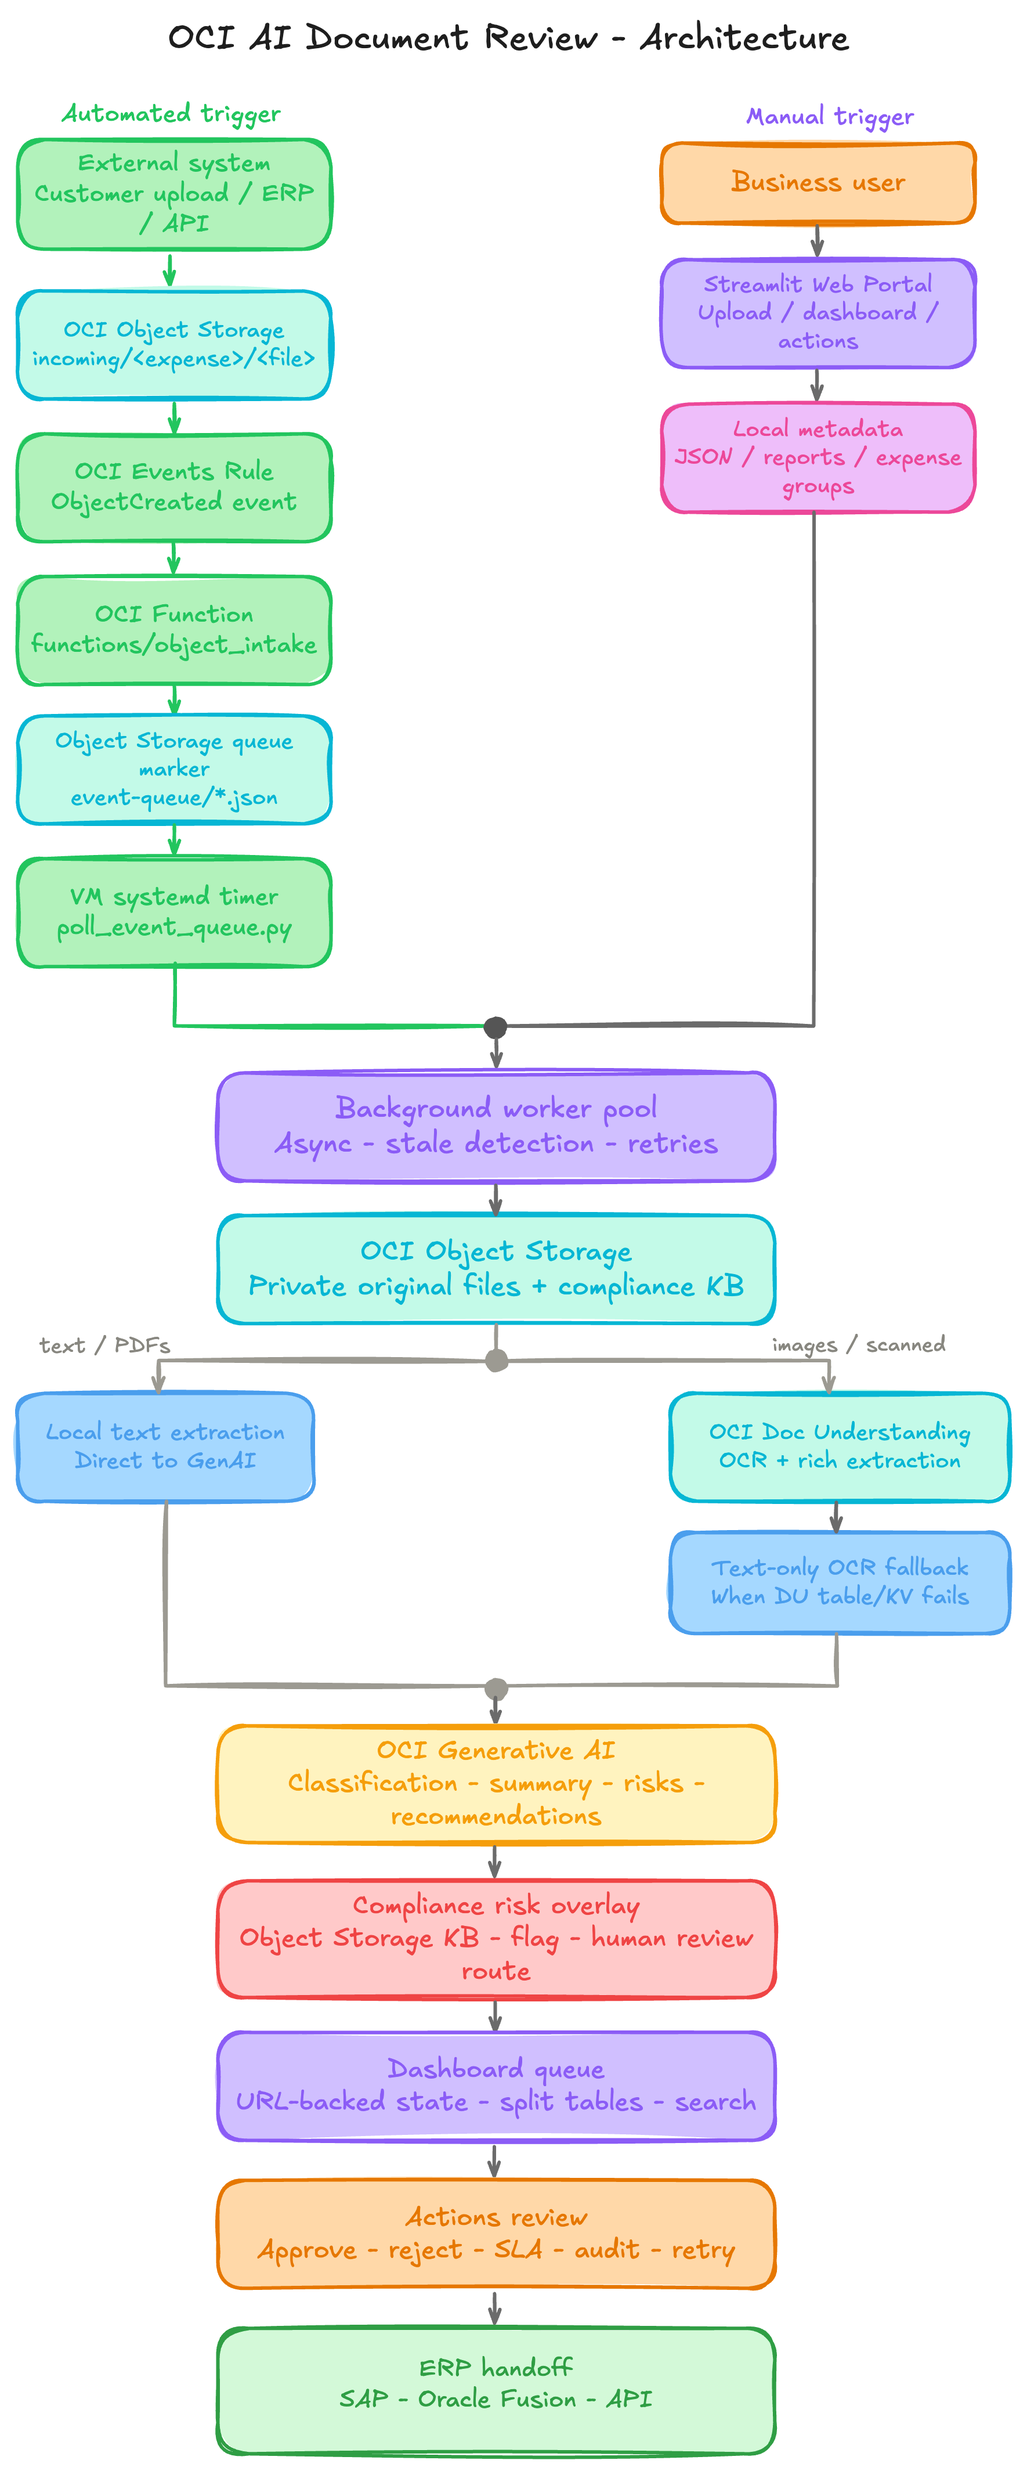
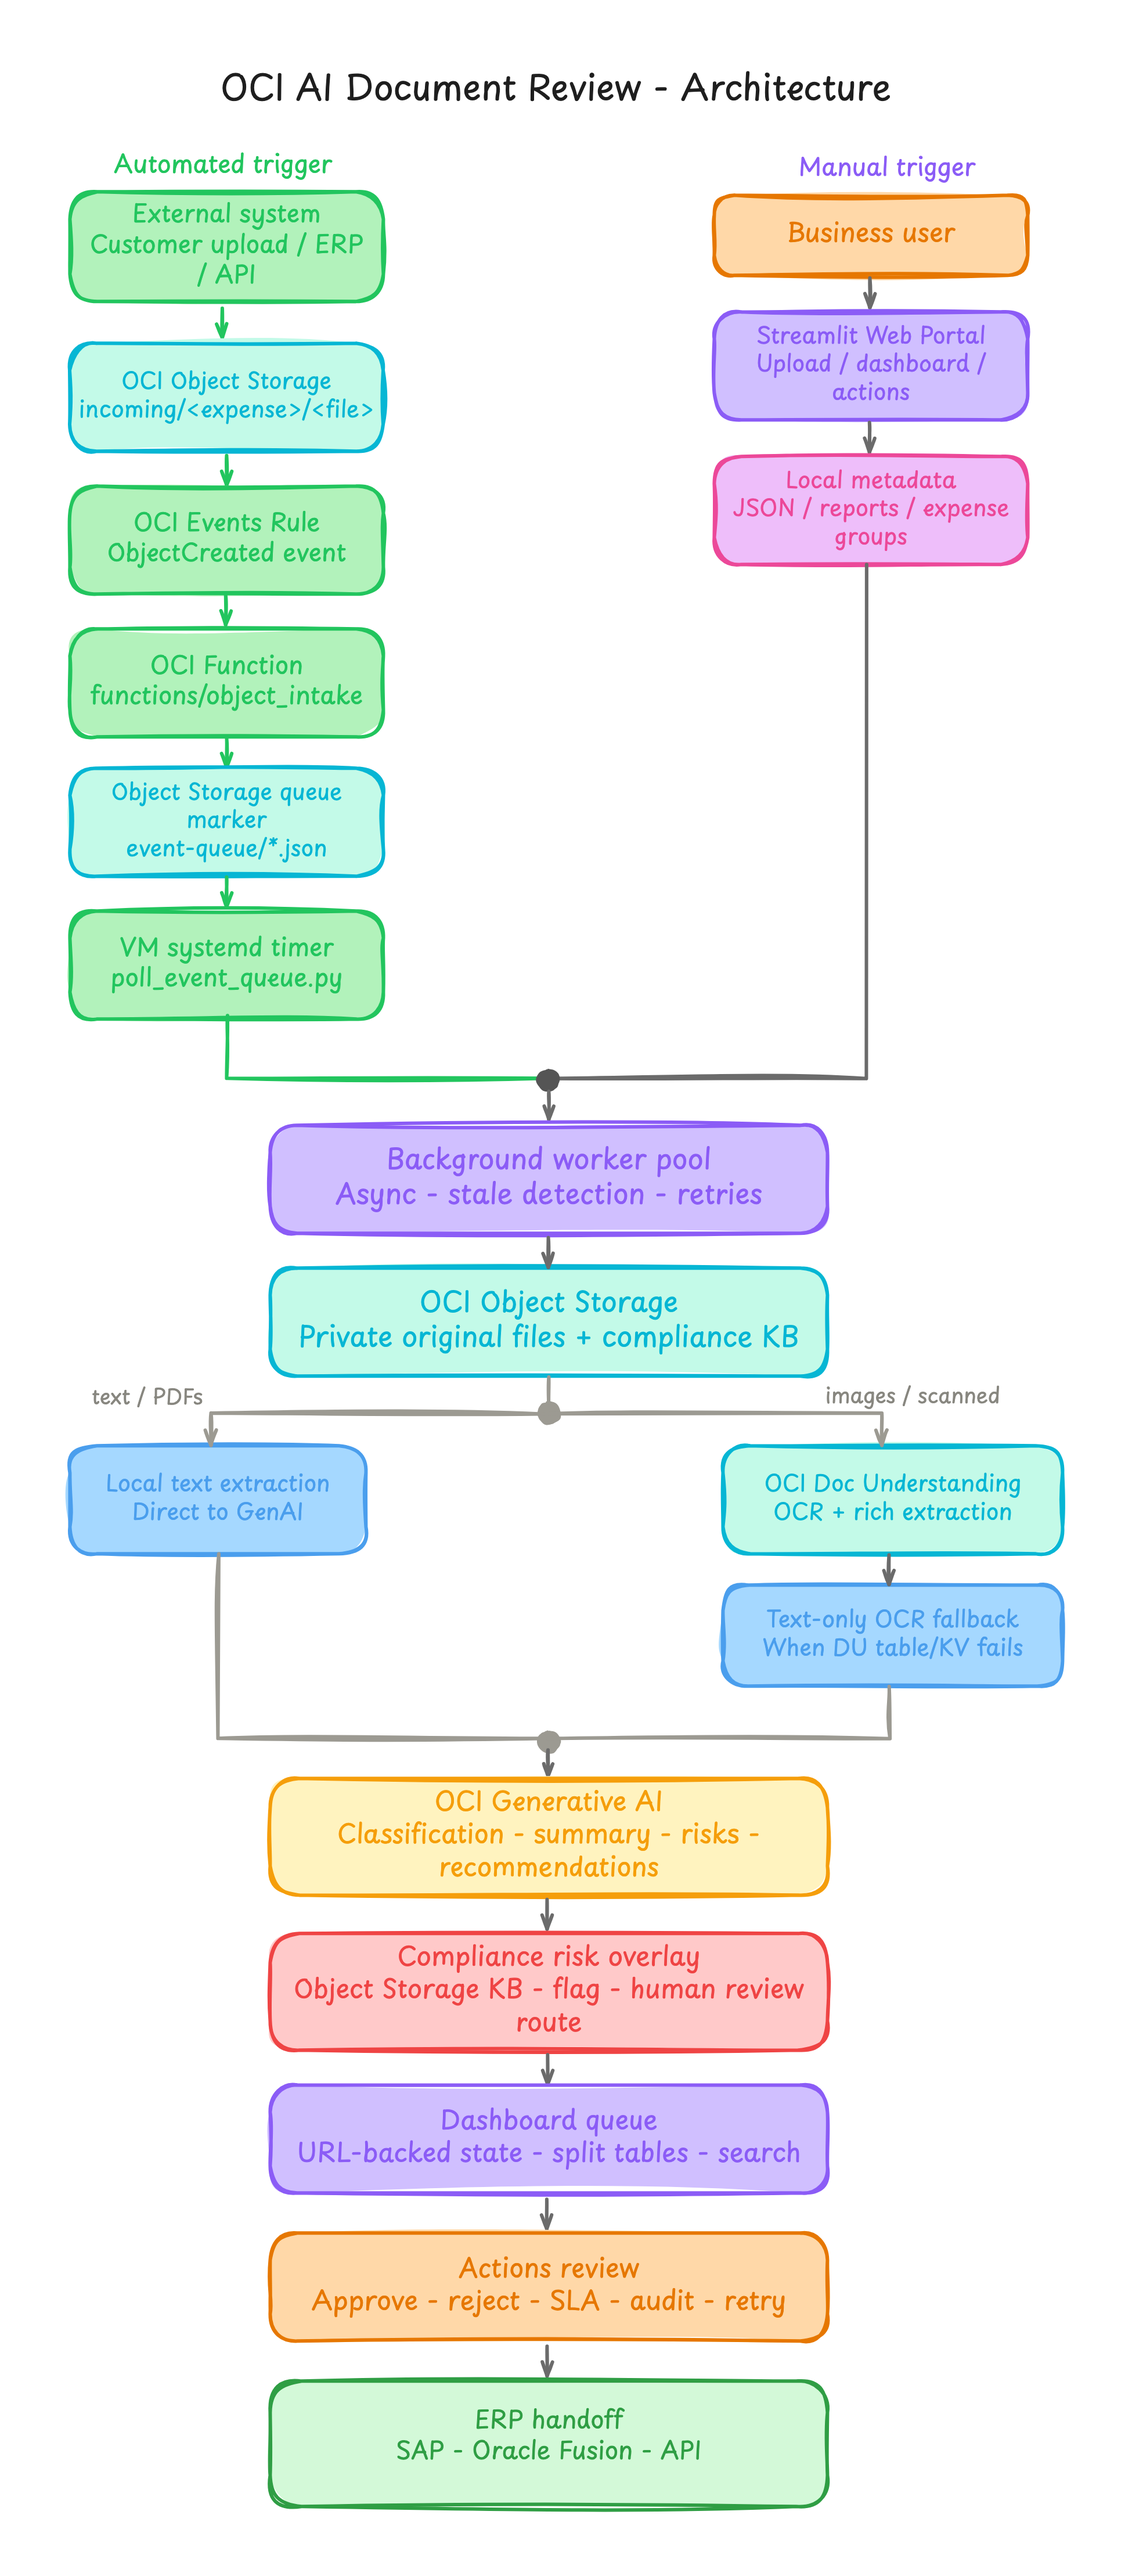
Add architecture image render workflow

Changed region(s): [[0.0, 0.0, 0.9944, 0.9998], [0.4661, 0.0, 0.5593, 0.0625]]

diff --git a/README.md b/README.md
@@ -366,6 +366,7 @@ functions/object_intake/       Optional Object Storage intake Function
 scripts/setup.py               Guided OCI configuration wizard
 scripts/deploy.sh              Terraform + Ansible deployment runner
 scripts/cleanup_retention.py   VM-local retention cleanup helper
+scripts/render_architecture.mjs Render the architecture PNG from Excalidraw
 data/compliance/               Seed compliance catalog
 docs/                          Architecture, usage, cost, security, and release notes
 ```

diff --git a/docs/architecture_flows.md b/docs/architecture_flows.md
@@ -16,6 +16,14 @@ Editable source:
 docs/assets/oci-ai-document-review-architecture.excalidraw
 ```
 
+Regenerate the PNG after editing the Excalidraw source:
+
+```bash
+npm install
+npx playwright install chromium
+npm run docs:render-architecture
+```
+
 ```text
 +---------------+
 | Business User |
